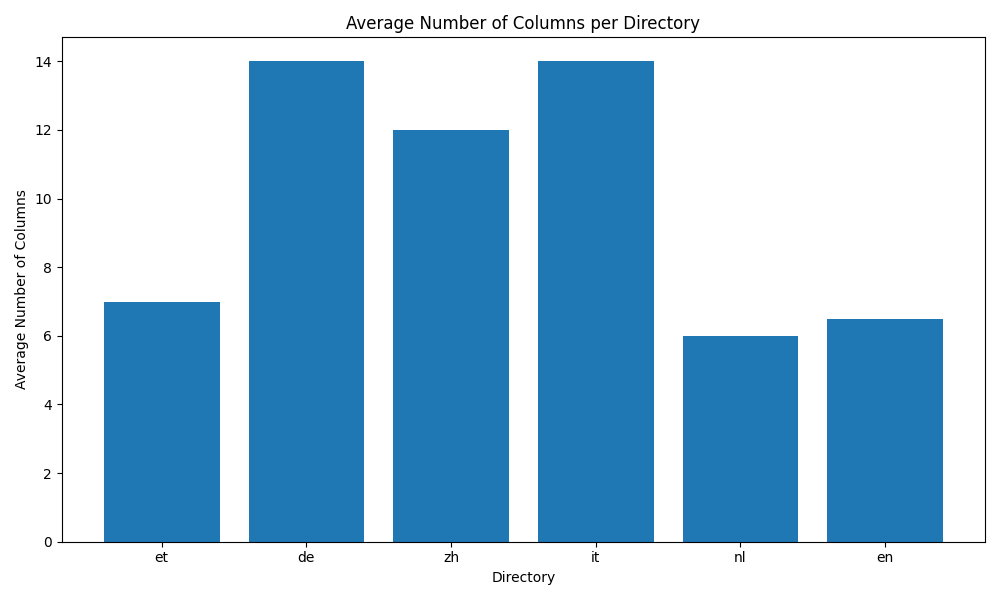
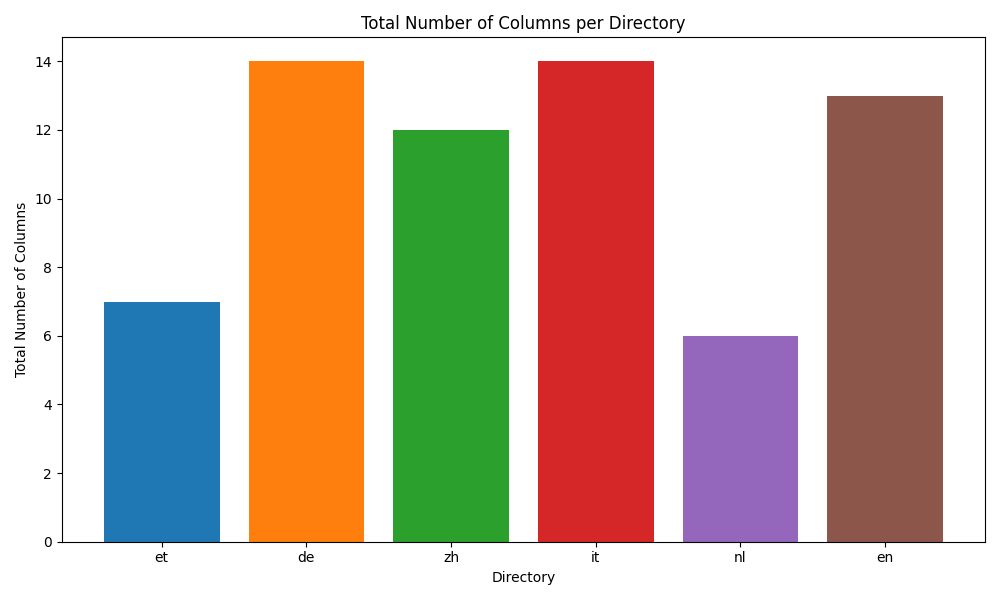
x

diff --git a/Eight-thousander/column.py b/Eight-thousander/column.py
@@ -7,7 +7,8 @@ def main():
     subdirs = [d for d in os.listdir(base_dir) if os.path.isdir(os.path.join(base_dir, d))]
     
     results = []
-    
+    column_summary = []
+
     for subdir in subdirs:
         subdir_path = os.path.join(base_dir, subdir)
         csv_files = [f for f in os.listdir(subdir_path) if f.endswith('.csv')]
@@ -15,42 +16,56 @@ def main():
         if not csv_files:
             continue
         
-        col_counts = []
+        total_columns = 0
+        all_columns = set()
+
         for csv_file in csv_files:
             file_path = os.path.join(subdir_path, csv_file)
             try:
                 df = pd.read_csv(file_path)
-                col_counts.append(len(df.columns))
+                total_columns += len(df.columns)
+                all_columns.update(df.columns)
             except Exception as e:
                 print(f"Error reading {file_path}: {e}")
         
-        if col_counts:
-            avg_cols = sum(col_counts) / len(col_counts)
-            results.append({'Directory': subdir, 'Avg Columns': avg_cols, 'Table Numbers': len(col_counts)})
+        results.append({
+            'Directory': subdir,
+            'Total Columns': total_columns,
+            'Table Numbers': len(csv_files)
+        })
+
+        column_summary.append({
+            'Directory': subdir,
+            'Columns': ', '.join(sorted(all_columns))
+        })
     
     if not results:
         print("No CSV files found.")
         return
     
     df_results = pd.DataFrame(results)
+    df_column_summary = pd.DataFrame(column_summary)
+
     print(df_results)
-    
-    # Save table to Markdown
+
+    # Save main summary table to Markdown
     with open('statistics.md', 'w') as f:
         f.write('# Column Statistics\n\n')
         f.write(df_results.to_markdown(index=False))
         f.write('\n')
 
-    # Plot
+    # Save aggregated column names to CSV
+    df_column_summary.to_csv('aggregated_columns_by_language.csv', index=False)
+
+    # Plot with different colors for each bar
     plt.figure(figsize=(10, 6))
-    plt.bar(df_results['Directory'], df_results['Avg Columns'])
+    bars = plt.bar(df_results['Directory'], df_results['Total Columns'], color=plt.cm.tab10.colors[:len(df_results)])
     plt.xlabel('Directory')
-    plt.ylabel('Average Number of Columns')
-    plt.title('Average Number of Columns per Directory')
+    plt.ylabel('Total Number of Columns')
+    plt.title('Total Number of Columns per Directory')
     plt.tight_layout()
     plt.savefig('column_count_plot.png')
     plt.show()
 
 if __name__ == '__main__':
     main()
-

diff --git a/Eight-thousander/statistics.md b/Eight-thousander/statistics.md
@@ -1,10 +1,10 @@
 # Column Statistics
 
-| Directory   |   Avg Columns |   Table Numbers |
-|:------------|--------------:|----------------:|
-| et          |           7   |               1 |
-| de          |          14   |               1 |
-| zh          |          12   |               1 |
-| it          |          14   |               1 |
-| nl          |           6   |               1 |
-| en          |           6.5 |               2 |
+| Directory   |   Total Columns |   Table Numbers |
+|:------------|----------------:|----------------:|
+| et          |               7 |               1 |
+| de          |              14 |               1 |
+| zh          |              12 |               1 |
+| it          |              14 |               1 |
+| nl          |               6 |               1 |
+| en          |              13 |               2 |
